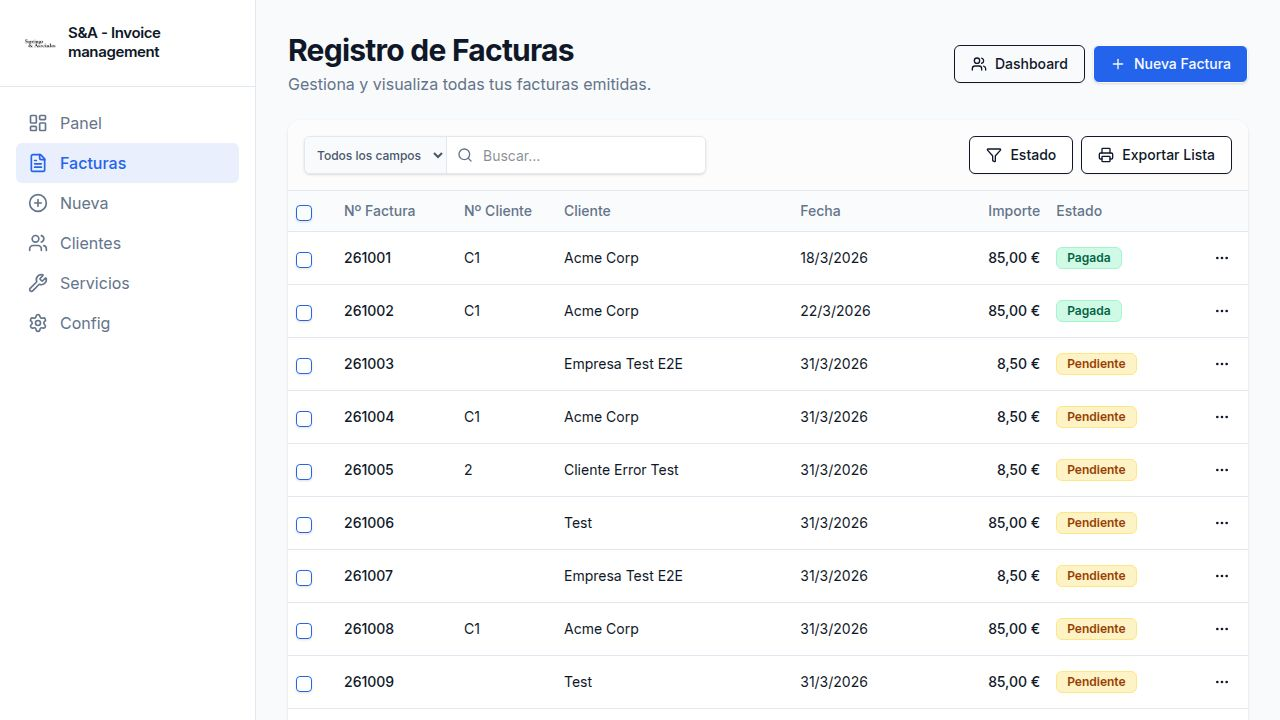
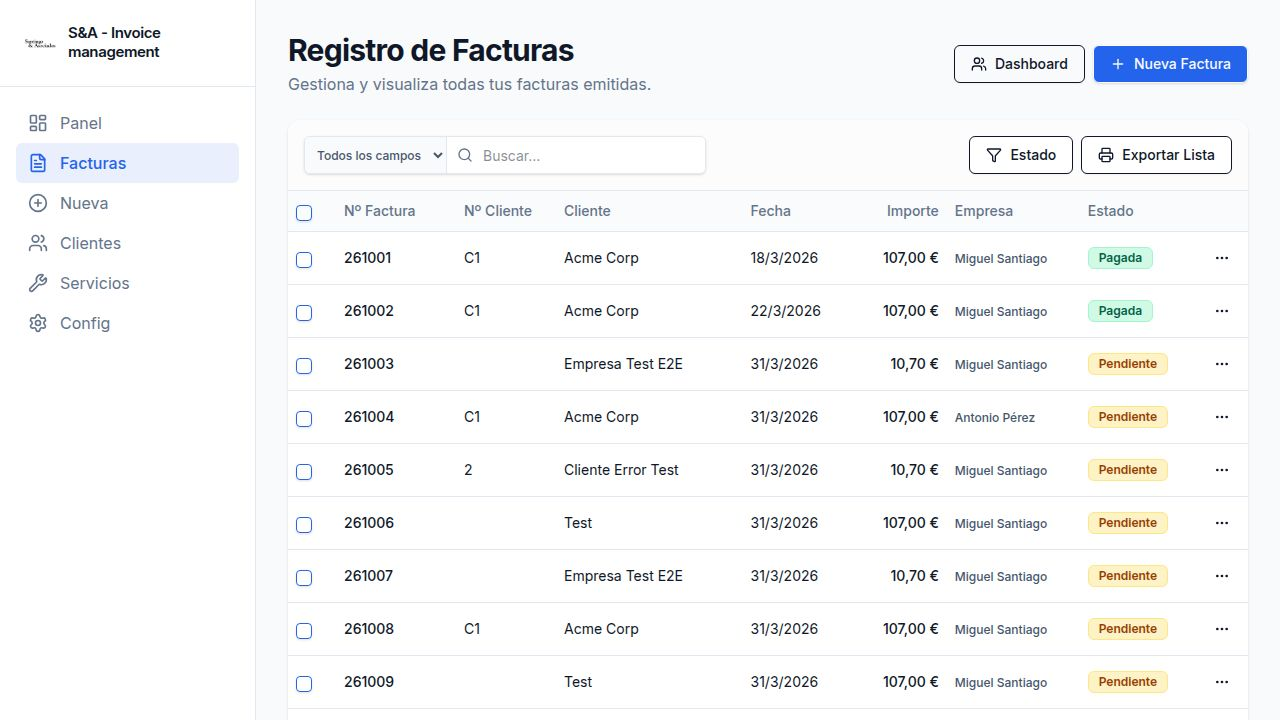
Add ability to search invoices by company name
Update InvoicesList.tsx to include "Empresa" as a searchable field in the dropdown and enhance the filtering logic to support searching by company name.

Replit-Commit-Author: Agent
Replit-Commit-Session-Id: 354d7358-b95e-4117-9626-1248a2485086
Replit-Commit-Checkpoint-Type: full_checkpoint
Replit-Commit-Event-Id: a12533ff-0e25-4016-888a-8cc032a8fbe9
Replit-Commit-Screenshot-Url: https://storage.googleapis.com/screenshot-production-us-central1/b0f06aba-e2f8-4422-a54c-9358c8417c61/354d7358-b95e-4117-9626-1248a2485086/pgs9yVw
Replit-Helium-Checkpoint-Created: true

diff --git a/client/src/pages/InvoicesList.tsx b/client/src/pages/InvoicesList.tsx
@@ -72,11 +72,13 @@ export default function InvoicesList() {
     const dateStr = new Date(inv.date).toLocaleDateString('es-ES');
     const amountStr = formatCurrency(getInvoiceTotal(inv));
     const statusStr = getStatusLabel(inv.status).toLowerCase();
+    const empresaStr = getCompanyLabel(inv).toLowerCase();
 
     switch (searchColumn) {
       case "number":       return inv.number.toLowerCase().includes(search);
       case "clientNumber": return clientNumber.includes(search);
       case "client":       return clientName.includes(search);
+      case "empresa":      return empresaStr.includes(search);
       case "date":         return dateStr.includes(search);
       case "amount":       return amountStr.includes(search);
       case "status":       return statusStr.includes(search);
@@ -85,6 +87,7 @@ export default function InvoicesList() {
           inv.number.toLowerCase().includes(search) ||
           clientNumber.includes(search) ||
           clientName.includes(search) ||
+          empresaStr.includes(search) ||
           dateStr.includes(search) ||
           amountStr.includes(search) ||
           statusStr.includes(search)
@@ -461,6 +464,7 @@ export default function InvoicesList() {
               <option value="number">Nº Factura</option>
               <option value="clientNumber">Nº Cliente</option>
               <option value="client">Cliente</option>
+              <option value="empresa">Empresa</option>
               <option value="date">Fecha</option>
               <option value="amount">Importe</option>
               <option value="status">Estado</option>
